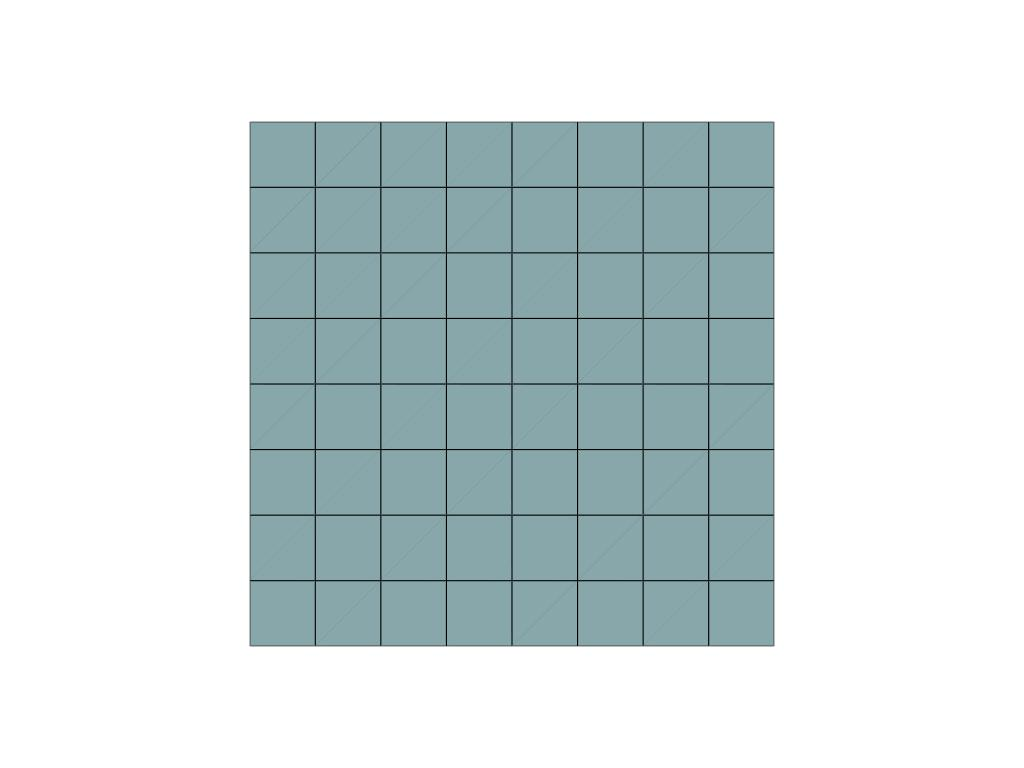
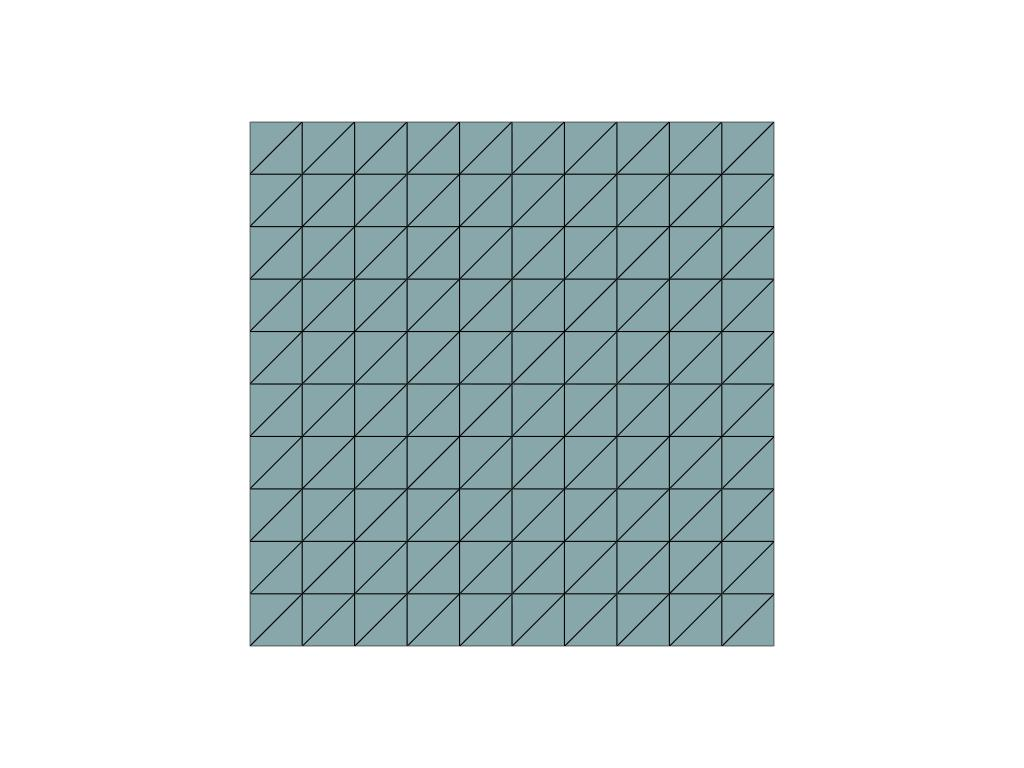
Endelige rettelser!

Changed region(s): [[0.25, 0.1562, 0.75, 0.8438], [0.5312, 0.1562, 0.5625, 0.1875], [0.4375, 0.8125, 0.4688, 0.8438]]

diff --git a/Afsnit/Application/Hovedtekst.tex b/Afsnit/Application/Hovedtekst.tex
@@ -14,7 +14,7 @@ We do this for convience, as numpy are better for numerical apporiximations, and
 easier to work with in FEniCSx.
 Next, we need to define the mesh and the function space we will be working in. 
 We do this on line 16-22, where $N$ defines the number of cells in each directions of our mesh, resulting in $N^2$ elements in total.
-Then "degree" defines the degree of polynomials we use in each cell.
+Then `degree' defines the degree of polynomials we use in each cell.
 Next step in the process is to define the space of trial functions 
 and the space of test functions, which we do on line 24-26.
 In a different situation, these two spaces could have been different.
@@ -29,15 +29,39 @@ After obtaining the solution, we can look at the error, which can be computed us
 %with being the mesh size, $r$ the convergence rate and $C$ some constant independent of $h$.
 The convergence rate tells us how fast the error decreases as we increase the number of elements in our mesh and degree of polynomials.
 We will show this imperically by computing the error for different mesh sizes and degrees and comparing them. 
-In Table~\ref{tab:convergence}, the error for five different mesh sizes, and 10 degrees of polynomials can be seen.
+In Table~\ref{tab:convergence}, 
+the error for five different mesh sizes are shown. 
+For each different mesh, the solution have been approximated using polynomials of degree one through ten.
+%The table shows the error decreases as we decrease the cell size for all degrees of the polynomials, 
+%and smaller sizes of cells increases the convergence rate dramatically. 
+%For example, at $h=0.03125$, the error is less than $40$ already at degree $6$, and 
+%for $h=0.0625$ to reach the same error, we need a degree of $8$, while bigger cells do not 
+%even reach that size of error.
+%Besides that, we can observe for a polynomial of degree $10$ the error changes by a factor $10^{-9}$ from a 
+%cell size of $0.25$ to $0.015625$. Meanwhile, for a polynomial of degree $5$ the error changes by a 
+%factor $10^{-6}$, and for a polynomial of degree $1$ the error changes by a factor $10^{-2}$. 
+%The degree of polynomials used to approximate thus affect the error, and convergence rate, greatly, 
+%which is in conjunction with both earlier theory and intuition. 
+As can be seen in Table~\ref{tab:convergence}, every time the degree of polynomials used in 
+approximations are increased by $1$, the error changes with a factor $10^{-1}$ or factor 
+$10^{-2}$, while a similar trend can be seen every time the cell size is halved. 
 
-The table shows the error decreases as we decrease the cell size for all degrees of the polynomials, 
-and smaller sizes of cells increases the convergence rate dramatically. 
-For example, at $h=0.03125$, the error is less than $40$ already at degree $6$, and 
-for $h=0.0625$ to reach the same error, we need a degree of $8$, while bigger cells do not 
-even reach that size of error.
+However, when the error is very small, an increase in degree or decrease in cell size results in 
+a increase in error; this can for example be seen at $h=0.0625$ from degree $9$ to $10$, and 
+at $h=0.0156$ from degree $5$ to $6$. 
+Also, for degree $6$, the error also increases as the cell size is halved from $0.0312$ to $0.0156$.
+This can be explained both by computational accuracy for 
+numbers of this size, meaning rounding error and truncation, and the ratio between the radii of the
+inner and outer circles might increase, which can also be a factor here.
 \begin{figure}[ht]
-    \center
-    \input{Appendix/tabel_fejl.tex}
+    \center~\input{Appendix/tabel_fejl.tex}
     \caption{Table of convergence rate of errors}\label{tab:convergence}
 \end{figure}
+There can be some question as to whether using polynomials of degree $10$ and $64^2$ cells over a 
+$2$ by $2$ square is computationally practical in other settings. 
+This is where an evaluation of physical properties, like observational accuracy, desired precision and other 
+factors would come into play.
+There also exists algorithms for refining a coarse mesh. It involves finding hanging nodes, triangle 
+points which dissects other triangle edges, and splitting the triangles which are dissected. 
+However, making cells too small can cause the error estimates to diverge, as the ratio between the radii of the
+inner and outer circles might increase.

diff --git a/Appendix/tabel_fejl.tex b/Appendix/tabel_fejl.tex
@@ -1,28 +1,57 @@
 % chktex-file 44
-\begin{tabular}{|r|r|r|r|r|r|}
+\begin{tabular}{|r|r|r|r|r|r|}    
     \hline
-    Degree &                    \multicolumn{5}{c|}{Size of $h$}                                   \\
+    Degree &        \multicolumn{5}{c|}{Size of $h$}          \\
+
     \hline
-       &          0.25 &      0.125       &           0.0625 &          0.03125 &         0.015625 \\
+        & 0.25     & 0.125    & 0.0625   & 0.0312   & 0.0156  \\
     \hline
-    1  & 4.67454e+08   &      2.25264e+08 &      7.91207e+07 &      2.20585e+07 &      5.73871e+06 \\
+    1  & 0.159    & 0.0418   & 0.0106   & 0.00266  & 0.000666 \\
     \hline
-    2  & 2.25595e+08   &      7.90539e+07 &      1.13243e+07 &      1.49544e+06 &           190463 \\
+    2  & 0.0114   & 0.00145  & 0.000181 & 2.26e-05 & 2.83e-06 \\
     \hline
-    3  & 1.26809e+08   &      1.79289e+07 &      1.32999e+06 &           113656 &           7390.8 \\
+    3  & 0.00103  & 6.26e-05 & 3.79e-06 & 2.31e-07 & 1.43e-08 \\
     \hline
-    4  & 5.12053e+07   &      2.95071e+06 &           300970 &          12221.9 &          402.822 \\
+    4  & 6.4e-05  & 2.02e-06 & 6.3e-08  & 1.97e-09 & 6.14e-11 \\
     \hline
-    5  & 1.60739e+07   &      1.3077e+06  &          49422.9 &          847.042 &          13.3082 \\
+    5  & 2.24e-06 & 3.51e-08 & 5.48e-10 & 8.55e-12 & 5.63e-13 \\
     \hline
-    6  & 4.90332e+06   &      416519      &          4436.92 &          34.2407 &         0.272078 \\
+    6  & 9.71e-08 & 8.23e-10 & 6.57e-12 & 8.43e-13 & 3.39e-12 \\
     \hline
-    7  & 2.93235e+06   &      71557.2     &          234.893 &          1.46575 &       0.00644169 \\
+    7  & 6.09e-09 & 2.45e-11 & 4.88e-13 & 1.84e-12 & 7.35e-12 \\
     \hline
-    8  & 1.41838e+06   &      4687.31     &          38.2869 &         0.105716 &      0.000220462 \\
+    8  & 2.31e-10 & 4.62e-13 & 2.83e-13 & 1.01e-12 & 3.76e-12 \\
     \hline
-    9  & 432549        &      1346.04     &          4.40185 &        0.0047685 &       1.4813e-05 \\
+    9  & 5.1e-12  & 1.83e-13 & 7.46e-13 & 3.04e-12 & 1.22e-11 \\
     \hline
-    10 & 70746.3       &      378.437     &         0.270403 &       0.00012822 &      4.77788e-05 \\
+    10 & 2.01e-13 & 5.18e-13 & 2.02e-12 & 7.97e-12 & 3.17e-11 \\
     \hline
 \end{tabular}
+
+% \begin{tabular}{|r|r|r|r|r|r|}
+%     \hline
+%     Degree &                    \multicolumn{5}{c|}{Size of $h$}                                   \\
+%     \hline
+%        &          0.25 &      0.125       &           0.0625 &          0.03125 &         0.015625 \\
+%     \hline
+%     1  & 4.67454e+08   &      2.25264e+08 &      7.91207e+07 &      2.20585e+07 &      5.73871e+06 \\
+%     \hline
+%     2  & 2.25595e+08   &      7.90539e+07 &      1.13243e+07 &      1.49544e+06 &           190463 \\
+%     \hline
+%     3  & 1.26809e+08   &      1.79289e+07 &      1.32999e+06 &           113656 &           7390.8 \\
+%     \hline
+%     4  & 5.12053e+07   &      2.95071e+06 &           300970 &          12221.9 &          402.822 \\
+%     \hline
+%     5  & 1.60739e+07   &      1.3077e+06  &          49422.9 &          847.042 &          13.3082 \\
+%     \hline
+%     6  & 4.90332e+06   &      416519      &          4436.92 &          34.2407 &         0.272078 \\
+%     \hline
+%     7  & 2.93235e+06   &      71557.2     &          234.893 &          1.46575 &       0.00644169 \\
+%     \hline
+%     8  & 1.41838e+06   &      4687.31     &          38.2869 &         0.105716 &      0.000220462 \\
+%     \hline
+%     9  & 432549        &      1346.04     &          4.40185 &        0.0047685 &       1.4813e-05 \\
+%     \hline
+%     10 & 70746.3       &      378.437     &         0.270403 &       0.00012822 &      4.77788e-05 \\
+%     \hline
+% \end{tabular}

diff --git a/Afsnit/Application/Grafer.tex b/Afsnit/Application/Grafer.tex
@@ -1,24 +1,33 @@
 \begin{figure}[H]
     \centering
-    \begin{subfigure}{.3\textwidth}
+    \begin{subfigure}{.49\textwidth}
         \centering
         \includegraphics[width=\textwidth]{Afsnit/Application/figurer/screenshot_1.jpeg}
-        \caption{Quadrilaterial slicing of domain}~\label{fig:FEM_plot_domain}
+        \caption{Domain partitioned into triangles}~\label{fig:FEM_plot_domain}
       \end{subfigure}
-    \begin{subfigure}{.3\textwidth}
+    \begin{subfigure}{.49\textwidth}
         \centering
         \includegraphics[width=\textwidth]{Afsnit/Application/figurer/screenshot_2.jpeg}
-        \caption{Domain colored in accordance to the warping scalar obtained by the solution $u_h$ ranging from 1 to 4}~\label{fig:FEM_plot_warped_domain}
+        \caption{Domain colored in accordance to the warping scalar obtained by the solution $u_h$ ranging from $-1.06$ to $4.40$}~\label{fig:FEM_plot_warped_domain}
     \end{subfigure}
-    \begin{subfigure}{.3\textwidth}
+    \begin{subfigure}{.49\textwidth}
         \centering
         \includegraphics[width=\textwidth]{Afsnit/Application/figurer/screenshot_3.jpeg}
-        \caption{The same domain warped with respect to the scalar value, ranging from 1 to 4}~\label{fig:FEM_plot_3D}
+        \caption{The same domain warped with respect to the scalar value, ranging from $-1.06$ to $4.40$}~\label{fig:FEM_plot_3D}
     \end{subfigure}
     \caption{Plots of the domain}~\label{fig:FEM_plots}
 \end{figure}
 
-As discussed earlier the first step in approximatin the solution to a partial differential equation is do establish a fitting domain. In our example we have chosen a square ranging from $(-1,-1)$ to $(1,1)$.
-The domain is then quadrilaterialerised or triangulised depending on the specific scenario, in Plot~\ref{fig:FEM_plot_domain} we have chosen to slice the domain into quadrilaterials, of equal size making the domain regular.
-After the domain is sliced and we have estimated the soltion using the nodal points obtained in the quadrilaterials, we can plot the solution over the domain to obtain Plot~\refeq{fig:FEM_plot_warped_domain} where each cell is colored in accordance to the value in the given point.
-We can then warp the domain to give a clear look on what exactly our solution looks like in 3D, this is shown in Plot~\refeq{fig:FEM_plot_3D}, where it is also obvious what the visual meaning of a boundary condition, since it is clear the boundary follows the specificied function $1 + x_0^2 + 2x_1^2$.
+As discussed earlier the first step in approximating the solution to a PDE is to establish a fitting domain. In our example we have chosen a square ranging from $(-1,-1)$ to $(1,1)$.
+The domain is then quadrilaterialerised or triangulised depending on the specific scenario. 
+We have chosen to partition into triangles, as can be seen
+in Figure~\ref{fig:FEM_plot_domain}. 
+These triangles are of equal size making the domain regular.
+After the domain is partitioned and we have estimated the solution,
+we can plot the solution over the domain to obtain Figure~\refeq{fig:FEM_plot_warped_domain} 
+where each cell is coloured in accordance to the value in the given point.
+We can then warp the domain to give a clear look on what exactly our solution looks like in 3D, 
+which is shown in Figure~\refeq{fig:FEM_plot_3D}.
+%, 
+%where it is also obvious what the visual meaning of a boundary condition is, 
+%since it is clear the boundary follows the specificied function $1 + x_0^2 + 2x_1^2$.

diff --git a/Formalia/Forside.tex b/Formalia/Forside.tex
@@ -25,26 +25,19 @@
     \midrule
     \vspace{0.4cm}
     \begin{center}
-    \Huge{\textsc{Finite Element Method}}
+    \Huge{\textsc{An introductory examiniation of the Finite Element Method}}
     \end{center}
-    \vspace{0.4cm}
   %  \\
-   \begin{center}
-    %     Undertitel%
-    \Large{\textsc{}}% insert your subtitle here
-     % }
-    \end{center}
     \vspace{0.4cm}\\
     \midrule
     \toprule[2pt]
   \end{tabular}
   \vspace{0.8cm}
   \setlength\fboxsep{0pt}
-    %\begin{figure}[ht]
-      %  \centering
-    %\input{Afsnit/ReptileMotiven.tex}
-    %\includegraphics{Billeder/Figurer/ForsideFigur.pdf}
-   % \end{figure}
+    \begin{figure}[ht]
+        \centering
+      \includegraphics[width=\textwidth]{Afsnit/Application/figurer/screenshot_3.jpeg}
+    \end{figure}
     \setlength\fboxsep{5pt}
   %\begin{center}
     % {Projektrapport 3. semester%Insert document type (e.g., Project Report)
@@ -55,7 +48,7 @@
   %\end{center}
   \vfill
 \begin{center}
-  {\large{Group 5.219b} \\
+  {\large{Group 5.216c} \\
     {Aalborg University} \\
     {Mathematics} \\}
 \end{center}
@@ -72,7 +65,7 @@
 \thispagestyle{empty}
 {\small
 \strut\vfill % push the content to the bottom of the page
-\noindent Copyright \copyright{} Aalborg University 2020\par
+\noindent Copyright \copyright{} Aalborg University 2024\par
 \vspace{0.2cm}
 %\noindent Here you can write something about which tools and software you have used for typesetting the document, running simulations and creating figures. If you do not know what to write, either leave this page blank or have a look at the colophon in some of your books.
 }

diff --git a/Afsnit/indledning/indledning.tex b/Afsnit/indledning/indledning.tex
@@ -2,10 +2,12 @@
 When examining complex physical problems, partial differential equations often occur. 
 These equations are often difficult and in some case impossible to calculate algebraically.
 We therefore approximate the solution numerically.
-One way to do this if the Finite Element Method.
+One way to do this is the Finite Element Method.
 This is done by looking at smaller parts of the domain where we can restrict the problem,
-from these restrictions we are able to approximate solutions, 
-and by combining these solutions we can obtain a approximated solution to the original problem, 
-this process is called the Finite Element Method.
+and from these restrictions we are able to approximate solutions. 
+By combining these solutions we can obtain an approximated solution to the original problem. 
+This process is called the Finite Element Method.
 Furthermore we are able to give an error estimate of the approximated solution, 
 which is important when we want to know how accurate our solution is.
+In this project we will examine the basic theory regarding the Finite Element Method and 
+use it in a numerical analysis.

diff --git a/Afsnit/Konklusion/konklusion.tex b/Afsnit/Konklusion/konklusion.tex
@@ -1,9 +1,9 @@
 \chapter{Conclusion}
-We have examined how the space containing the solution to a differential equation 
+We have examined how the space containing the solution to a PDE 
 with boundary conditions can be constructed, and how a solution can be 
 approximated using piecewise polynomials, and by partitioning the domain 
 into smaller pieces.
-We have focused mostly on partitioning using triangles, though squares could 
+We have focused mostly on partitioning using triangles, though triangles could 
 also have been chosen.
-After splitting up the domain we are able to use the Finite Element Method to approximate numeric solutions, 
-as we've done in the application section of this paper.
+After partitioning the domain we are able to use the Finite Element Method to approximate numerical solutions, 
+as we've done in the application section of this project.

diff --git a/Afsnit/Kapitel2/finite_element/On_Continuity.tex b/Afsnit/Kapitel2/finite_element/On_Continuity.tex
@@ -135,11 +135,8 @@ can go wrong.
 \end{figure}
 As can be seen in Examples~\ref{exmp:c0_triangle_con},~\ref{exmp:c1_triangle_con}, 
 and~\ref{exmp:c0_square_bad}, there are many different ways to construct 
-finite elements, and doing so is not an exercise divorced %! ved ikke om jeg kan lide den her formulering, men nok mest fordi jeg ikke fatter den
-from $\OO$ or 
+finite elements, and doing so is not an exercise detached from $\OO$ or 
 the requirements on the solution. In this chapter we have looked at what FEM is practically, and how we construct 
 meshes using different partitions, and how those partitions are created using 
 finite elements. We now move on to examining how the error of using a 
 FEM solution behaves.
-
-%! Jeg kan ikke finde dokumentet som indeholder Theorem 4.10, i min pdf står der "theese"

diff --git a/plot.py b/plot.py
@@ -18,6 +18,7 @@ grid = pv.UnstructuredGrid(topology, cell_types, geometry)
 plotter = pv.Plotter()
 plotter.add_mesh(grid,show_edges=True)
 plotter.view_xy()
+plotter.show(cpos="xy", screenshot='./screenshot_1.jpeg')
 #plotter.save_graphic('mesh.svg')
  
 u_topology, u_cell_types, u_geometry = plot.vtk_mesh(V)
@@ -27,9 +28,10 @@ u_grid.set_active_scalars("u")
 u_plotter = pv.Plotter()
 u_plotter.add_mesh(u_grid,show_edges=True)
 u_plotter.view_xy()
+u_plotter.show(cpos="xy", screenshot='./screenshot_2.jpeg')
 #u_plotter.save_graphic('contour.svg')
 
 warped = u_grid.warp_by_scalar()
 plotter2 = pv.Plotter()
 plotter2.add_mesh(warped, show_edges=True, show_scalar_bar=True)
-plotter2.show(cpos="xy", screenshot='./screenshot.png')
+plotter2.show(cpos="xy", screenshot='./screenshot_3.jpeg')

diff --git a/Afsnit/Kapitel3/Aubin-Nitsche_Korrolar.tex b/Afsnit/Kapitel3/Aubin-Nitsche_Korrolar.tex
@@ -35,7 +35,6 @@ We use the previous theorem to prove an inequality more relevant to our situatio
 If the variational problem is sufficiently regular,
 Corollary~\ref{kor:7.7} gives us a connection between $f$ in our original problem, 
 and how big the error of our FEM approximation can be. 
-However, the norms used to measure this error does not describe the error %! .
-at singular points; there still might be points where the error grows uncontrollably large, 
+However, the norms used to measure this error does not describe the error at singular points; there still might be points where the error grows uncontrollably large, 
 if we just use Corollary~\ref{kor:7.7}. 
-To remedy that we use the next theorem. 
+To remedy that we introduce the next theorem. 

diff --git a/Afsnit/Kapitel3/6.4.tex b/Afsnit/Kapitel3/6.4.tex
@@ -4,7 +4,7 @@ We define $\rho_i$ and $r_i$ to be the radius of the largest inscribed circle an
 Given $x \in \mathbb{R}^2$, with $||x|| \leq 2 \rho_1$, find $y_1, z_1$ such that $x = y_1 - z_1$, where $y_1$ and $z_1$ are points in $T_1$. 
 Since $F(y_1), F(z_1) \in T_2$, we have that $||Bx|| \leq 2r_2$, thus
 \begin{equation}\label{eq:6.9}
-    ||B|| \leq \frac{r_2}{\rho_1}. %! har synced alle changes, forstår ikke hvorfor jeg ikke kan se det her punktum, min compiler er helt fucked
+    ||B|| \leq \frac{r_2}{\rho_1}.
 \end{equation}
 \begin{thmx}{\quad\label{thm:6.4}}
     Let $t \geq 2$, and suppose $\mathcal{T}_h$ is a shape-regular triangulation of $\OO$. Then there exists a constant $c$ such that

diff --git a/FEM.py b/FEM.py
@@ -17,7 +17,7 @@ def solver(N=10, degree=2):
     ## Define domain and functionspace over it
     domain = mesh.create_rectangle(
         comm=MPI.COMM_WORLD,
-        points=((-10, -10), (10, 10)),
+        points=((-1, -1), (1, 1)),
         n=(N, N))
     V = fem.functionspace(domain, ("Lagrange", degree))
 
@@ -81,7 +81,7 @@ def convergence_rate(Ns = [4, 8, 16, 32, 64], deg=1):
         hs[i] = f"{(1. / Ns[i]):.2e}"
     return [list(hs), list(Es)]
 
-def tabulate_convergence_rate(start=1, end=3): 
+def tabulate_convergence_rate(start=1, end=11): 
     for i in range(start, end):
         if(i == start):
             data = convergence_rate(deg=i)

diff --git a/Formalia/Synopsis.tex b/Formalia/Synopsis.tex
@@ -1,6 +1,6 @@
 I denne projektrapport gennemgår vi den basale teori 
 for 
-`Finite Element Method', som bruges til at approksimere løsninger til partiale differentialligninger med grænsebetingelser.
-For at kunne det har vi beskrevet et Finite Element rum, og opsætningen af dette,
+`Finite Element Method', som bruges til at approksimere løsninger til partiale differentialligninger med grænsebetingelser på kanten.
+For at kunne det har vi beskrevet diverse Hilbert rum, og opsætningen af disse,
 samt vurderinger af fejlen af approksimationen.
 Afslutningsvis eksaminerer vi et numerisk eksempel ved hjælp af programeringsplatformen FEniCSx.
